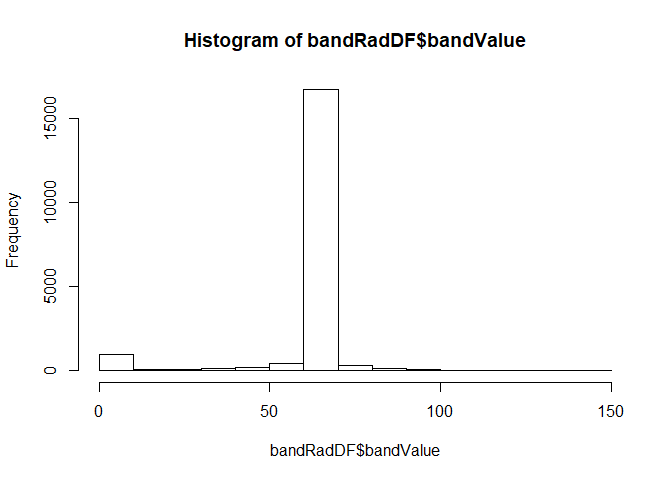
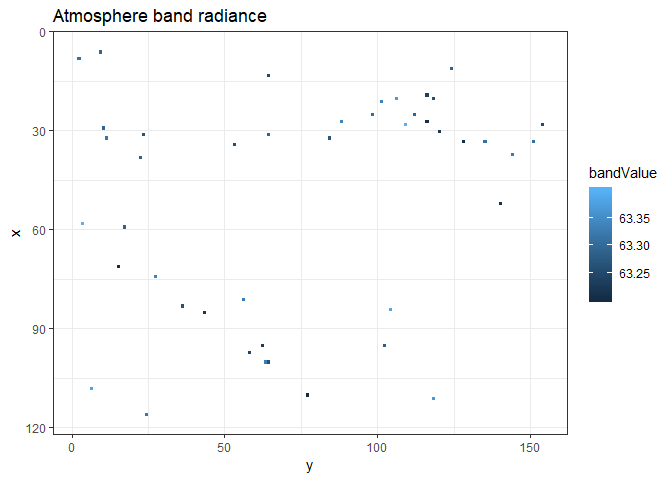
knit

diff --git a/tutorials/Band-calculation/README.md b/tutorials/Band-calculation/README.md
@@ -147,12 +147,24 @@ radAtmSpectral <- as.data.frame(simData_radAtm) %>%
 radAtmSpectral$value_tapp <- .planck_inverse(radAtmSpectral$equivalentWavelength, radAtmSpectral$value)
 
 bandRadDF <- getBandRadiance(spectralDF = radAtmSpectral, SRF = SRF)
+ggplot(radAtmSpectral %>% 
+         filter(value > 0.5) %>% 
+         group_by(lambdamid, add = TRUE) %>% 
+         summarise(valMin = quantile(value, 0.05),
+                   valMid = quantile(value, 0.5), 
+                   valMax = quantile(value, 0.95))) +
+  geom_ribbon(aes(x = lambdamid, ymin = valMin, ymax = valMax), fill = "red") +
+  geom_line(aes(x = lambdamid, y = valMid), colour = "black", size = 0.75)
+```
 
-print("should be ~70 W m2 sr")
+![](README_files/figure-markdown_github/unnamed-chunk-9-1.png)
+
+```r
+print("should be ~63.3 W m2 sr")
 ```
 
 ```
-## [1] "should be ~70 W m2 sr"
+## [1] "should be ~63.3 W m2 sr"
 ```
 
 ```r
@@ -161,11 +173,11 @@ summary(bandRadDF$bandValue[bandRadDF$bandValue > 1])
 
 ```
 ##    Min. 1st Qu.  Median    Mean 3rd Qu.    Max. 
-##   1.023  63.301  63.301  62.722  63.301 148.710
+##    1.16   61.79   62.12   58.82   62.24  145.14
 ```
 
 ```r
-ggplot(bandRadDF) +
+ggplot(bandRadDF %>% filter(between(bandValue, 63.2, 63.4))) +
   geom_raster(aes(x = x, y = y, fill = bandValue)) +
   theme_bw() +
   coord_flip() +
@@ -173,13 +185,21 @@ ggplot(bandRadDF) +
   ggtitle("Atmosphere band radiance")
 ```
 
-![](README_files/figure-markdown_github/unnamed-chunk-9-1.png)
+![](README_files/figure-markdown_github/unnamed-chunk-9-2.png)
 
 ```r
 hist(bandRadDF$bandValue)
 ```
 
-![](README_files/figure-markdown_github/unnamed-chunk-9-2.png)
+![](README_files/figure-markdown_github/unnamed-chunk-9-3.png)
+
+```r
+print("should be ~63.3 W m2 sr")
+```
+
+```
+## [1] "should be ~63.3 W m2 sr"
+```
 
 ```r
 ggplot(DARTbandCalcDF) +
@@ -190,7 +210,15 @@ ggplot(DARTbandCalcDF) +
   ggtitle("Atmosphere band radiance")
 ```
 
-![](README_files/figure-markdown_github/unnamed-chunk-9-3.png)
+![](README_files/figure-markdown_github/unnamed-chunk-9-4.png)
+
+```r
+print("DART is wrong here - validated using spectralcalc.com")
+```
+
+```
+## [1] "DART is wrong here - validated using spectralcalc.com"
+```
 
 ```r
 tmp = bandRadDF %>%
@@ -210,4 +238,4 @@ ggplot(tmp) +
   ggtitle("Atmosphere band radiance")
 ```
 
-![](README_files/figure-markdown_github/unnamed-chunk-9-4.png)
+![](README_files/figure-markdown_github/unnamed-chunk-9-5.png)
